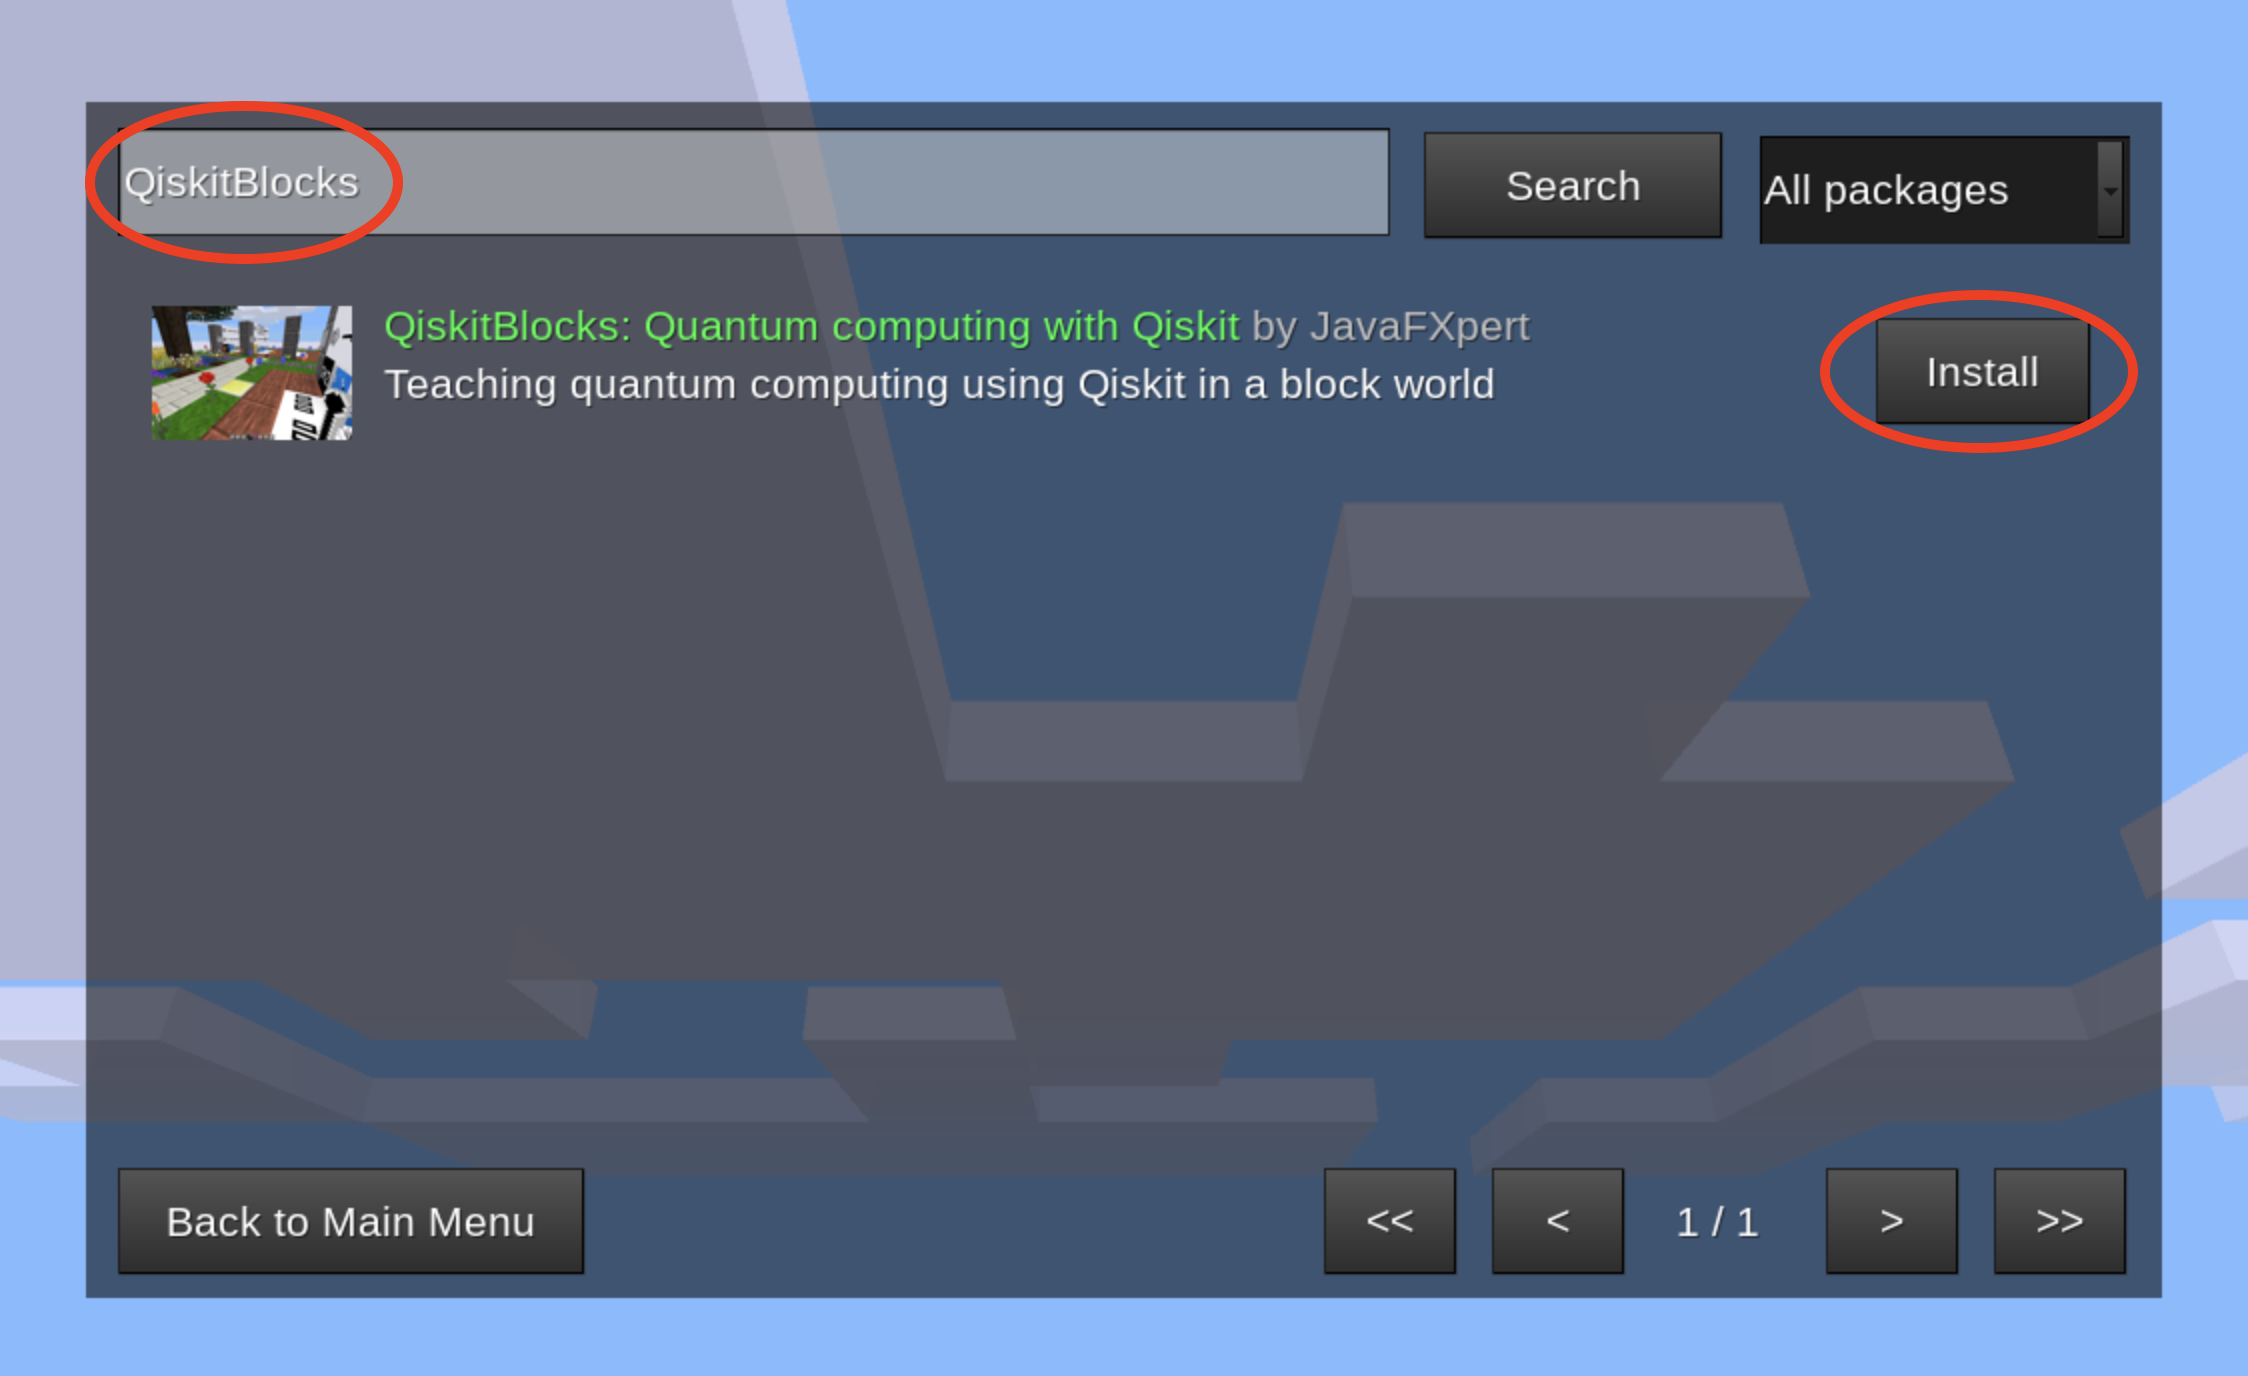
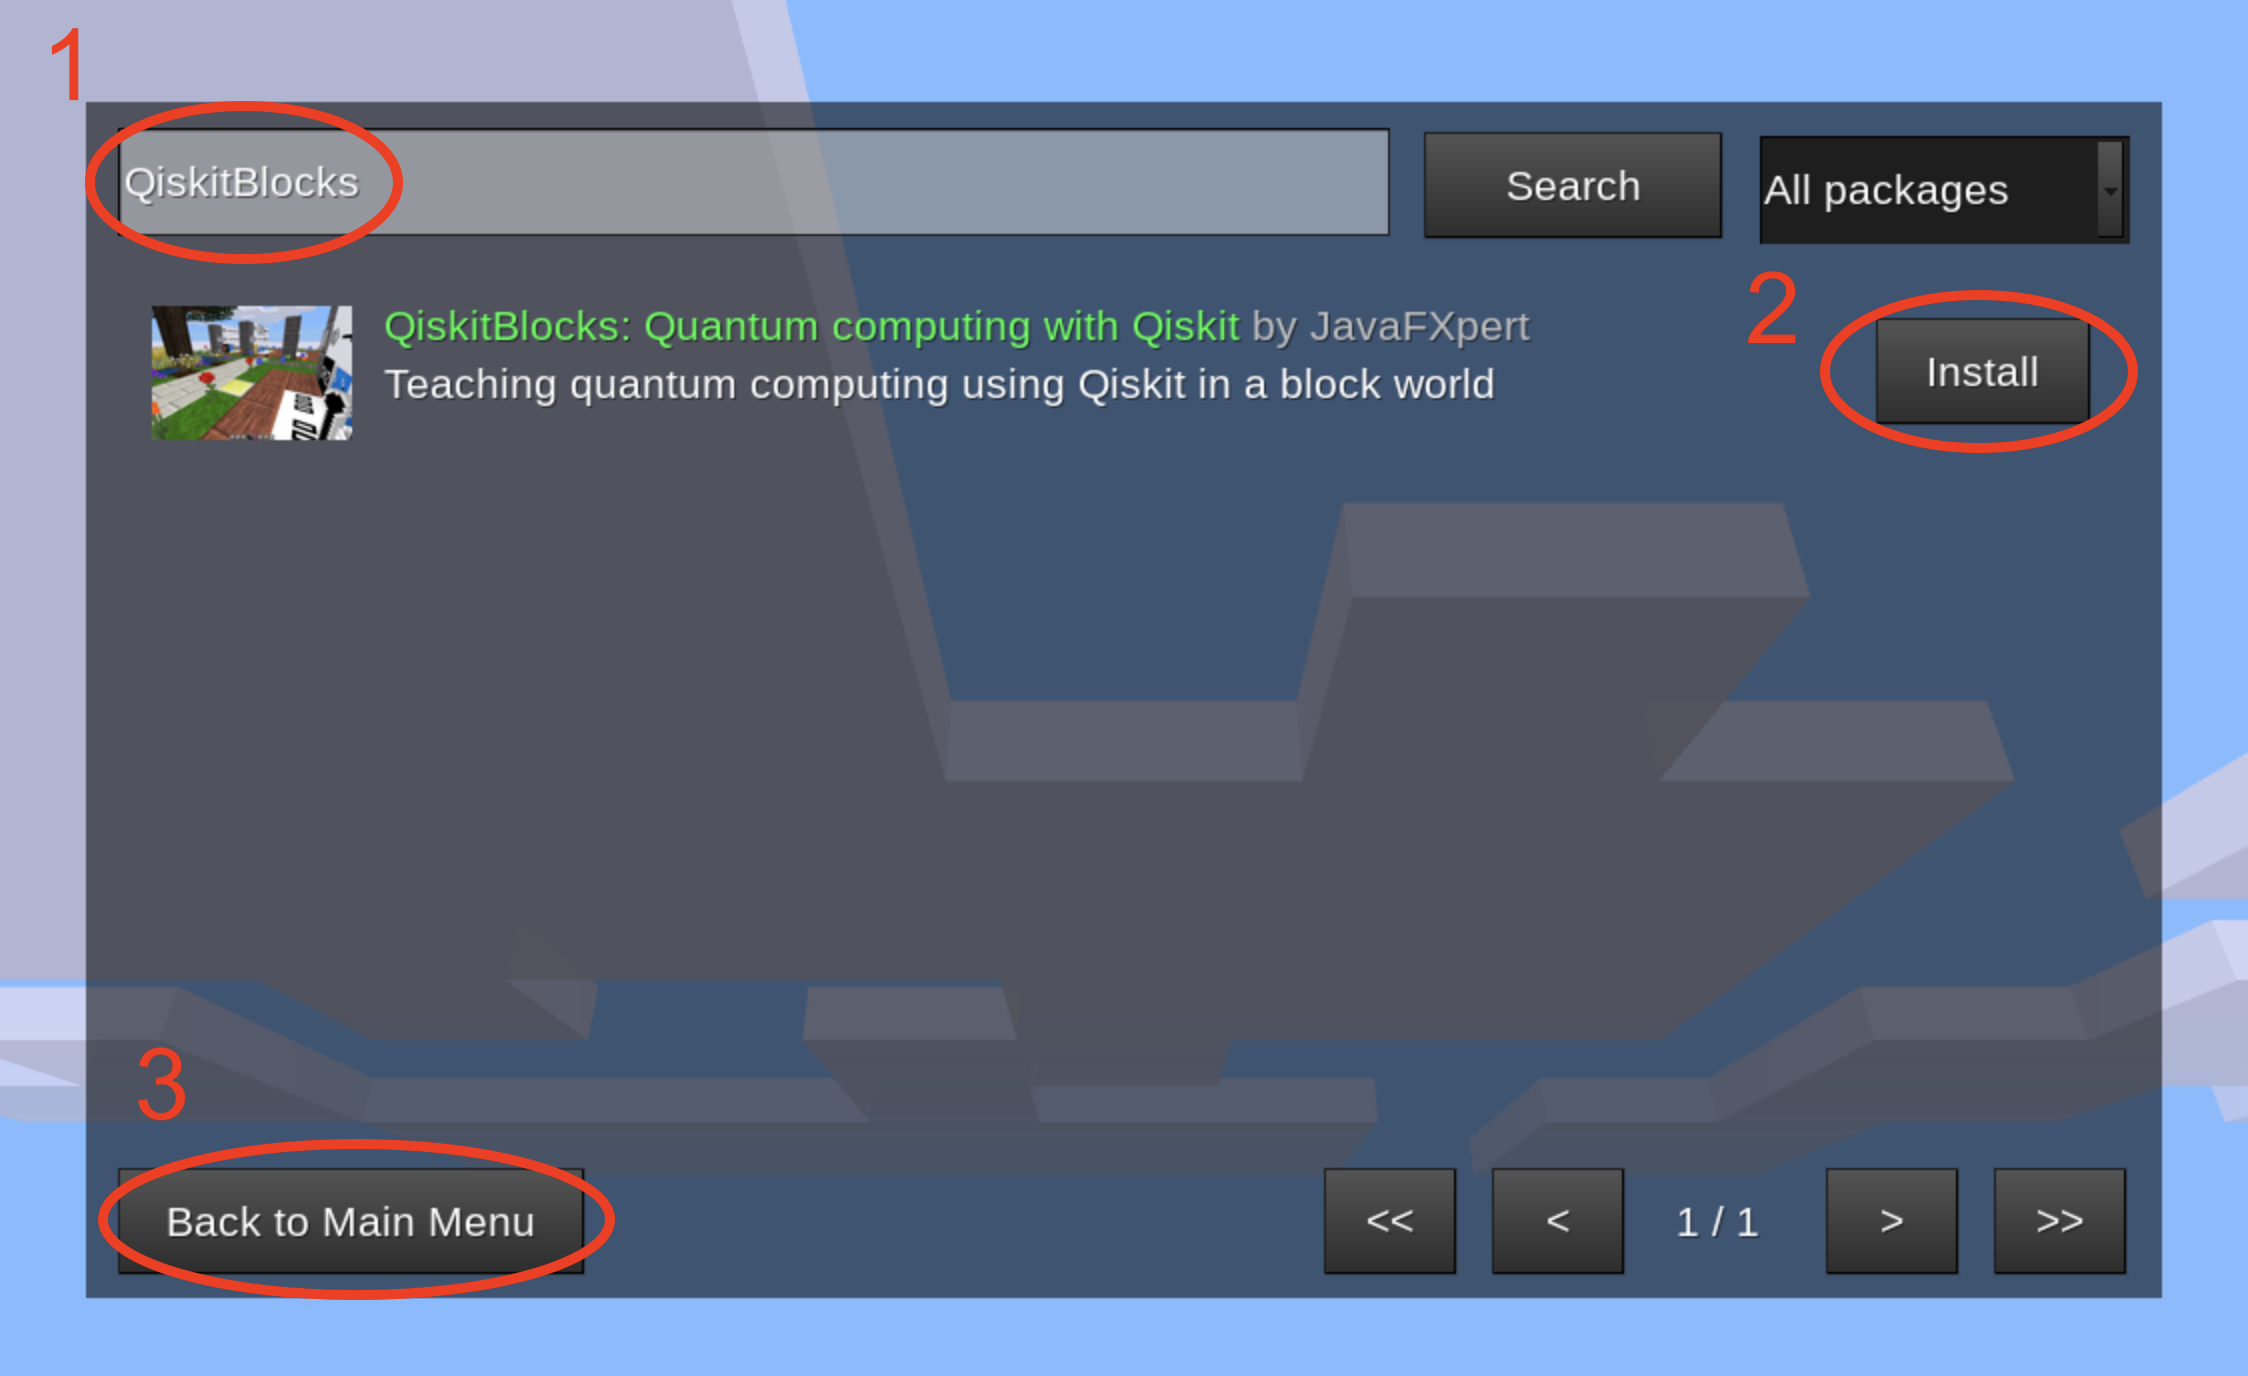
Update installation instructions

diff --git a/README.md b/README.md
@@ -4,11 +4,17 @@ Teaches quantum computing and Qiskit in a Minetest block world. Here's a [brief 
 ## Installation (the quick and easy way)
 - Download, install and run [Minetest 5.0.1](https://www.minetest.net/). Note: This site has a preferred alternative to MacOS Homebrew installation: https://www.techspot.com/downloads/5585-minetest.html
 
-- From the *Content* tab shown here, select *Browse online content*. 
+- From the *Content* tab shown here, click the *Browse online content* button. 
 ![Minetest Content Tab](https://github.com/JavaFXpert/QiskitBlocks/raw/master/minetest_content_tab.png)
 
-- When on the page shown shown here, search for *QiskitBlocks* and click *Install*.
+- When on the page shown shown here, search for *QiskitBlocks* and click the *Install* button. Click the *Back to Main Menu* button when installation has completed.
 ![Minetest Search QiskitBlocks](https://github.com/JavaFXpert/QiskitBlocks/raw/master/minetest_search_qiskitblocks.png)
+
+- From the *Start Game* tab shown here, click the round *Qiskit* image, deselect the three checkboxes, and click the *New* button.
+![Minetest Search QiskitBlocks](https://github.com/JavaFXpert/QiskitBlocks/raw/master/minetest_startgame_qiskitblocks.png)
+
+- From the *new world* dialog shown here, make up a world name with characters and underscores, enter `0` in the *Seed* field, select *flat* in the *Mapgen* field, and click the *Create* button.
+![Minetest New World Dialog](https://github.com/JavaFXpert/QiskitBlocks/raw/master/minetest_newworld_qiskitblocks.png)
 
 ## Installation (by cloning this repo)
 - Download and install [Minetest 5.0.1](https://www.minetest.net/). Note: This site has a preferred alternative to MacOS Homebrew installation: https://www.techspot.com/downloads/5585-minetest.html
